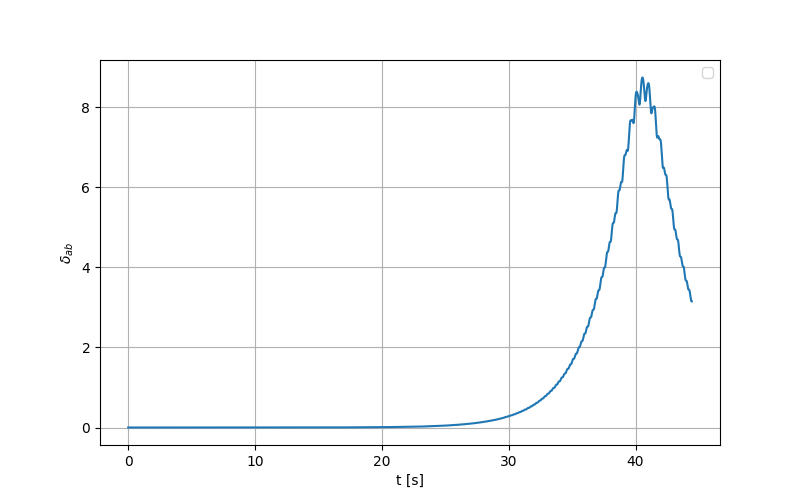
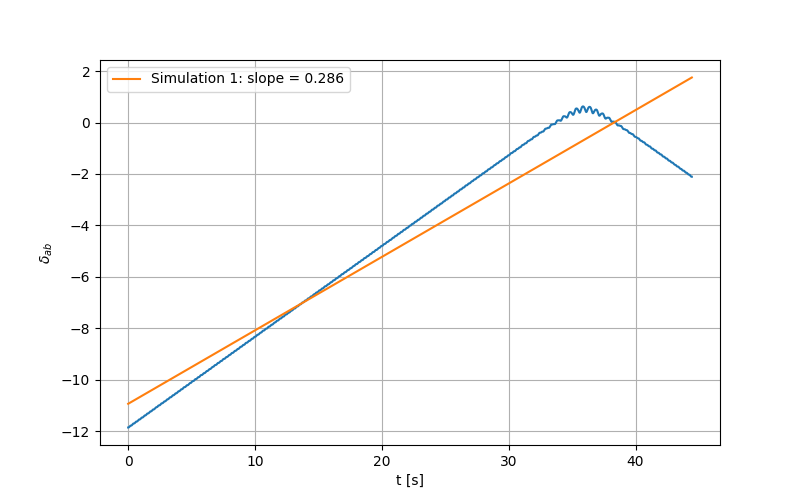
commiteee

diff --git a/questiond.py b/questiond.py
@@ -22,7 +22,7 @@ def read_in_file(filename):
                     print(f"Warning: Could not convert '{value}' to number. Check {filename}.")
     return variables
 
-repertoire = r"C:\Users\Avril\Desktop\Exo2PhysNum"  # Windows path format
+repertoire = r"C:\Users\Avril\Desktop\Exo2PhysNum-SLAY"  # Windows path format
 executable = os.path.join(repertoire, "Exe.exe")
 os.chdir(repertoire)
 
@@ -30,27 +30,37 @@ input_filename = "configb.in"
 
 params = read_in_file(input_filename)
 
-mu = params.get("mu", 0.0)
-B0 = params.get("B0", 0.0)
-m = params.get("m", 0.0)
-L = params.get("L", 0.0)
+mu = params.get("mu")
+B0 = params.get("B0")
+m = params.get("m")
+L = params.get("L")
 w0 = np.sqrt(12 * mu * B0 / (m * L**2))
 
-nsteps = np.array([2000], dtype=int)
-ci = np.array([0, 1e-6, np.pi / 2 , np.pi / 2 + 1e-6], dtype=float)
+# Define initial conditions (theta0, thetadot0)
+nsteps = np.array([1000], dtype=int)
+ci = np.array([
+    [2.665594, 0],
+    [2.665595, 0],
+    [4.379190, 0],
+    [4.379191, 0]
+], dtype=float)
+
 nsimul = len(nsteps) * len(ci)
 
 paramstr1 = "nsteps"
 paramstr2 = "theta0"
+paramstr3 = "thetadot0"  # New parameter for thetadot0
 
 outputs = []
 
 for n in nsteps:
-    for theta0 in ci:
-        output_file = f"{paramstr1}={n}_theta0={theta0:.7f}.out"
+    for theta0, thetadot0 in ci:
+        output_file = f"{paramstr1}={n}_theta0={theta0:.7f}_thetadot0={thetadot0:.7f}.out"
         outputs.append(output_file)
 
-        cmd = f'"{executable}" {input_filename} {paramstr1}={n} {paramstr2}={theta0:.15g} output={output_file}'
+        cmd = (
+            f'"{executable}" {input_filename} {paramstr1}={n} {paramstr2}={theta0:.15g} {paramstr3}={thetadot0:.15g} output={output_file}'
+        )
 
         print(f"\n Running command: {cmd}")
 
@@ -61,7 +71,6 @@ for n in nsteps:
         else:
             print(f"ERROR: The output file '{output_file}' was NOT created!")
 
-plt.figure(figsize=(8, 5))
 thetas = []
 thetas_dot = []
 
@@ -76,15 +85,29 @@ for i in range(nsimul):
 
 thetas = np.column_stack(thetas)  # Shape: (n_time_steps, n_simul)
 thetas_dot = np.column_stack(thetas_dot)  # Shape: (n_time_steps, n_simul)
-for i in range(2):
-    delta = np.sqrt(w0**2*(thetas[:,i+1] - thetas[:,i])**2 + (thetas_dot[:,i+1] - thetas_dot[:,i])**2)
-    print(f"Max error for simulation {i+1}: {np.max(delta)}")
-    plt.plot(t, delta)
-    plt.xlabel('t [s]')
-    plt.ylabel(r'$\delta_{ab}$')
-    plt.legend()
-    plt.grid()
-    plt.savefig(f'error_{i+1}.png')
-    plt.show()
 
+plt.figure(figsize=(8, 5))
 
+# Compute deltas
+delta1 = np.sqrt(w0**2 * (thetas[:, 1] - thetas[:, 0])**2 + (thetas_dot[:, 1] - thetas_dot[:, 0])**2)
+delta2 = np.sqrt(w0**2 * (thetas[:, 3] - thetas[:, 2])**2 + (thetas_dot[:, 3] - thetas_dot[:, 2])**2)
+
+# Plot both delta values with labels
+plt.plot(t, delta1, label=r'$\delta_{12}$')
+plt.plot(t, delta2, label=r'$\delta_{34}$')
+
+# Logarithmic Fit (Optional - Uncomment if needed)
+
+slope1, intercept1 = np.polyfit(t, np.log(delta1), 1)  # Avoid log(0) by adding a small value
+slope2, intercept2 = np.polyfit(t, np.log(delta2), 1)
+
+plt.plot(t, np.exp(slope1 * t + intercept1), '--', label=f"Fit δ₁: slope={slope1:.3f}")
+plt.plot(t, np.exp(slope2 * t + intercept2), '--', label=f"Fit δ₂: slope={slope2:.3f}")'
+
+# Labels and settings
+plt.xlabel('t [s]')
+plt.ylabel(r'$\delta_{ab}$')
+plt.legend()
+plt.grid()
+plt.savefig('error.png')
+plt.show()

diff --git a/heatmap_ci.py b/heatmap_ci.py
@@ -4,7 +4,7 @@ import fonctions as fct  # Assuming this module contains `read_in_file` and `run
 import matplotlib.pyplot as plt
 
 # Define paths
-repertoire = r"C:\Users\Avril\Desktop\Exo2PhysNum"
+repertoire = r"C:\Users\Avril\Desktop\Exo2PhysNum-SLAY"
 executable = os.path.join(repertoire, "Exe.exe")
 os.chdir(repertoire)
 
@@ -15,7 +15,7 @@ input_filename = "configb.in"
 params = fct.read_in_file(input_filename)
 
 # Extract parameters
-theta0, thetadot0, mu, B0, m, L, w0 = fct.get_params(params)
+theta0_a, thetadot0, mu, B0, m, L, w0 = fct.get_params(params)
 
 # Function to run simulations for theta0 and theta0 + 1e-6
 def run_sim(nsteps, ci_theta0, thetadot0):
@@ -74,12 +74,9 @@ def compute_lyapunov_exponent(t, theta_a, theta_dot_a, theta_b, theta_dot_b, w0)
     Returns:
     - float: Estimated Lyapunov exponent.
     """
-    delta_0 = 1e-6
-    delta_t = np.sqrt(w0**2 * (theta_b - theta_a)**2 + (theta_dot_b - theta_dot_a)**2)
-    delta_t_fin = delta_t[:-1]
-    t_fin = t[:-1]
-    lambda_value = np.log(delta_t_fin / delta_0) / t_fin
-    return lambda_value
+    delta = np.sqrt(w0**2 * (theta_b - theta_a)**2 + (theta_dot_b - theta_dot_a)**2)
+    slope, intercept = np.polyfit(t, np.log(delta), 1)
+    return slope
 
 # Main function that runs simulations and computes Lyapunov exponents
 def exp(nsteps, ci_theta0, thetadot0):
@@ -125,11 +122,21 @@ def exp(nsteps, ci_theta0, thetadot0):
 
 # Example Usage:
 nsteps = np.array([1000], dtype=int)
-ci_theta0 = np.linspace(0, 2*np.pi, 20)
+ci_theta0 = np.linspace(0, 2*np.pi, 100)
 
 lyapunov_results = exp(nsteps, ci_theta0, thetadot0)
+values = list(lyapunov_results.values())
+min_key = min(lyapunov_results, key=lyapunov_results.get)
+max_key = max(lyapunov_results, key=lyapunov_results.get)
 
-values = np.array(list(lyapunov_results.values()))
+# Get the corresponding values
+lyap_min = lyapunov_results[min_key]
+lyap_max = lyapunov_results[max_key]
+
+# Print results directly
+print(f"🔹 Minimum Lyapunov Exponent: {lyap_min:.6f} at {min_key}")
+print(f"🔺 Maximum Lyapunov Exponent: {lyap_max:.6f} at {max_key}")
+
 plt.plot(ci_theta0, values, '+')
 plt.xlabel('theta0')
 plt.ylabel('Lyapunov Exponent')

diff --git a/questiona2.py b/questiona2.py
@@ -25,7 +25,7 @@ def read_in_file(filename):
     return variables
 
 # Define executable path
-repertoire = r"C:\Users\Avril\Desktop\Exo2PhysNum"  # Correct Windows path
+repertoire = r"C:\Users\Avril\Desktop\Exo2PhysNum-SLAY"  # Correct Windows path
 executable = os.path.join(repertoire, "Exe.exe")  # Ensure proper joining
 
 # Change directory to where the executable is located
